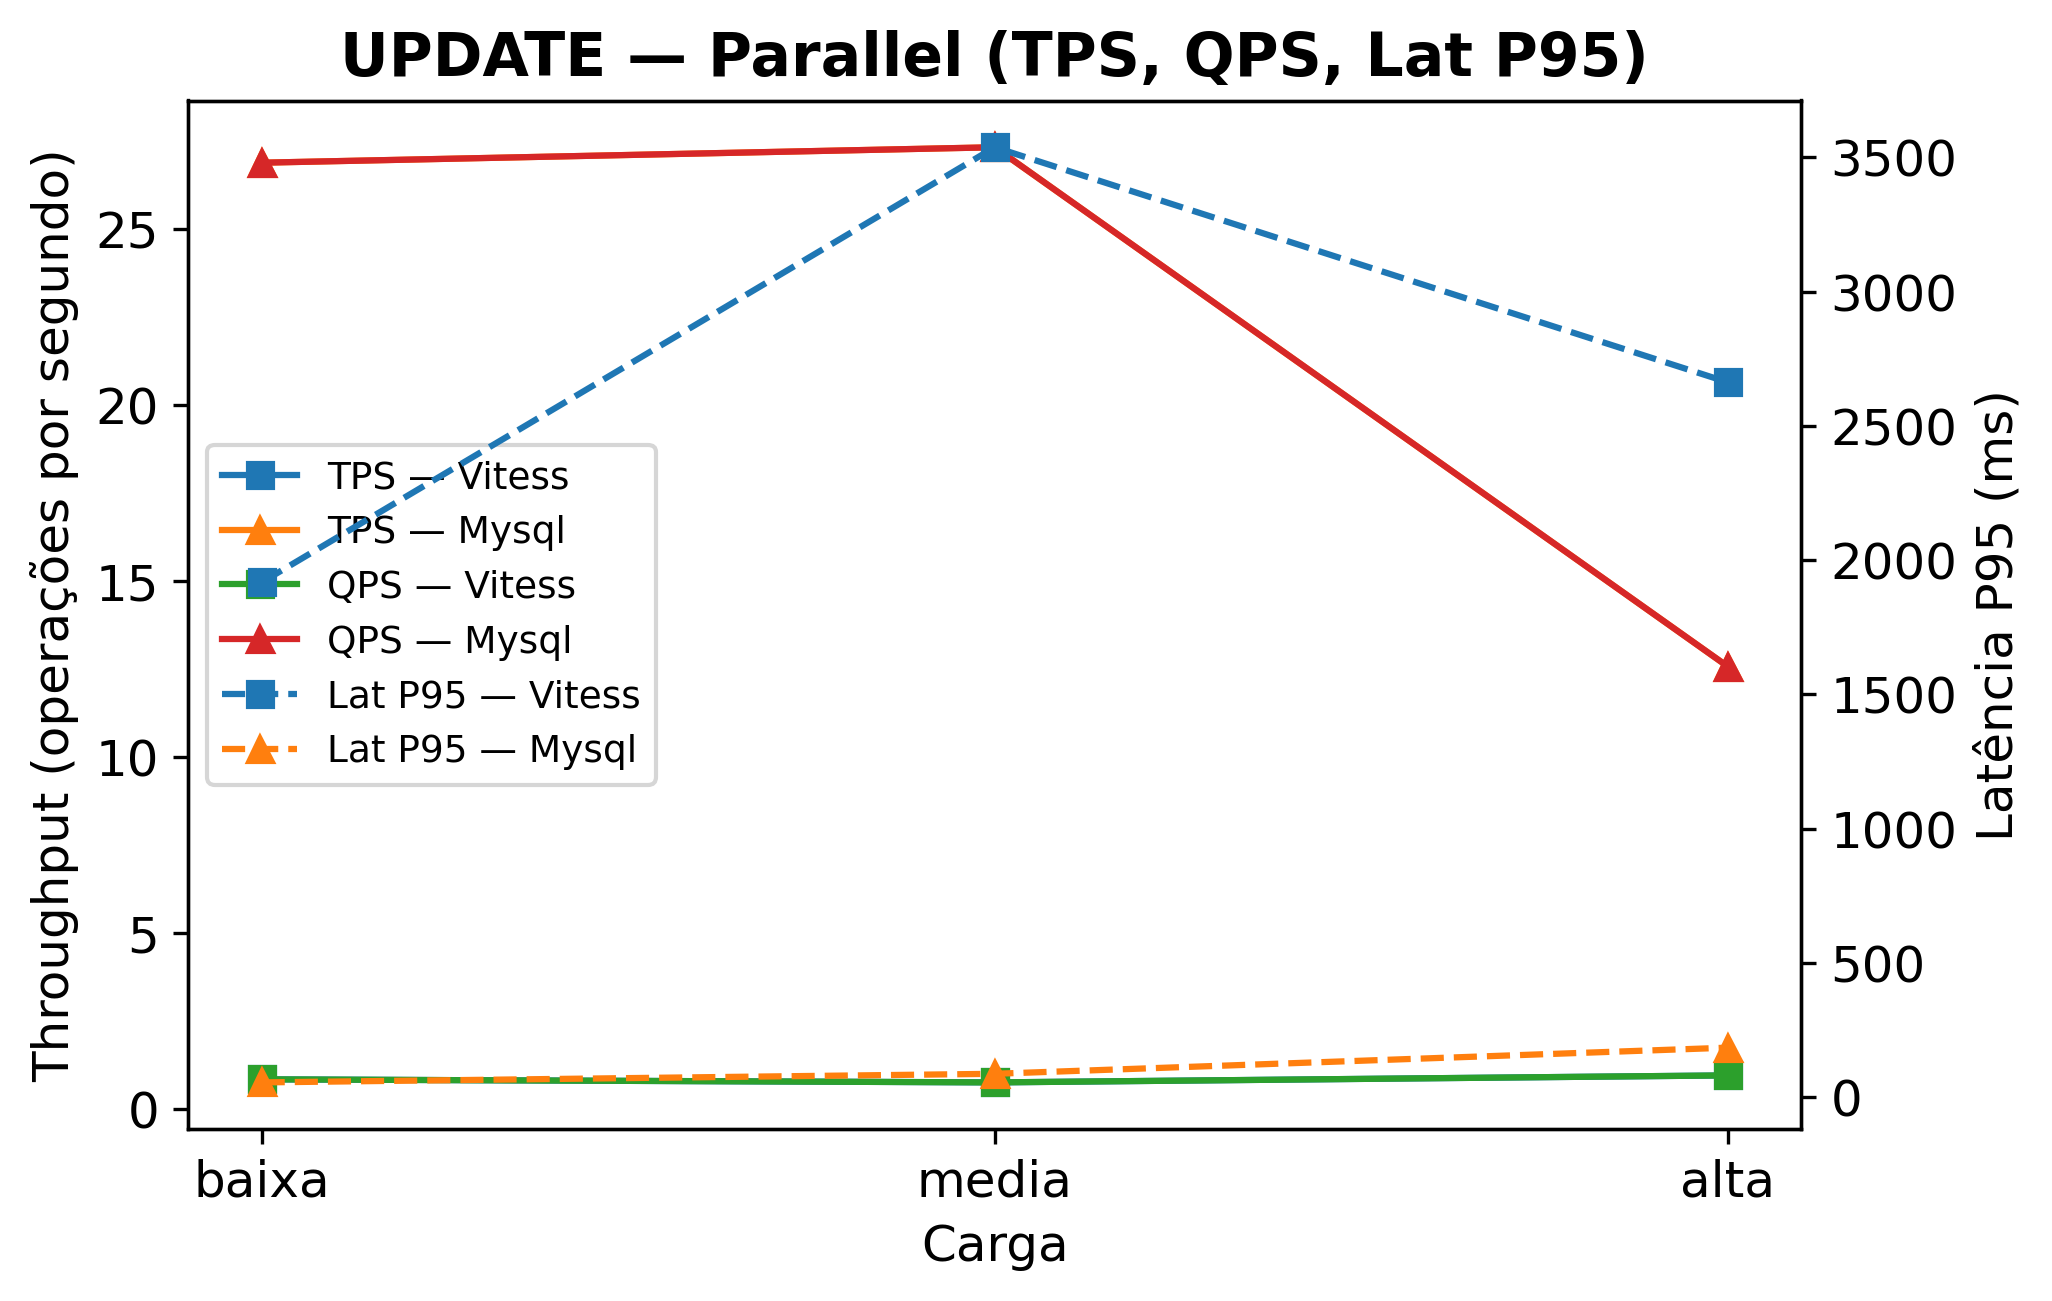
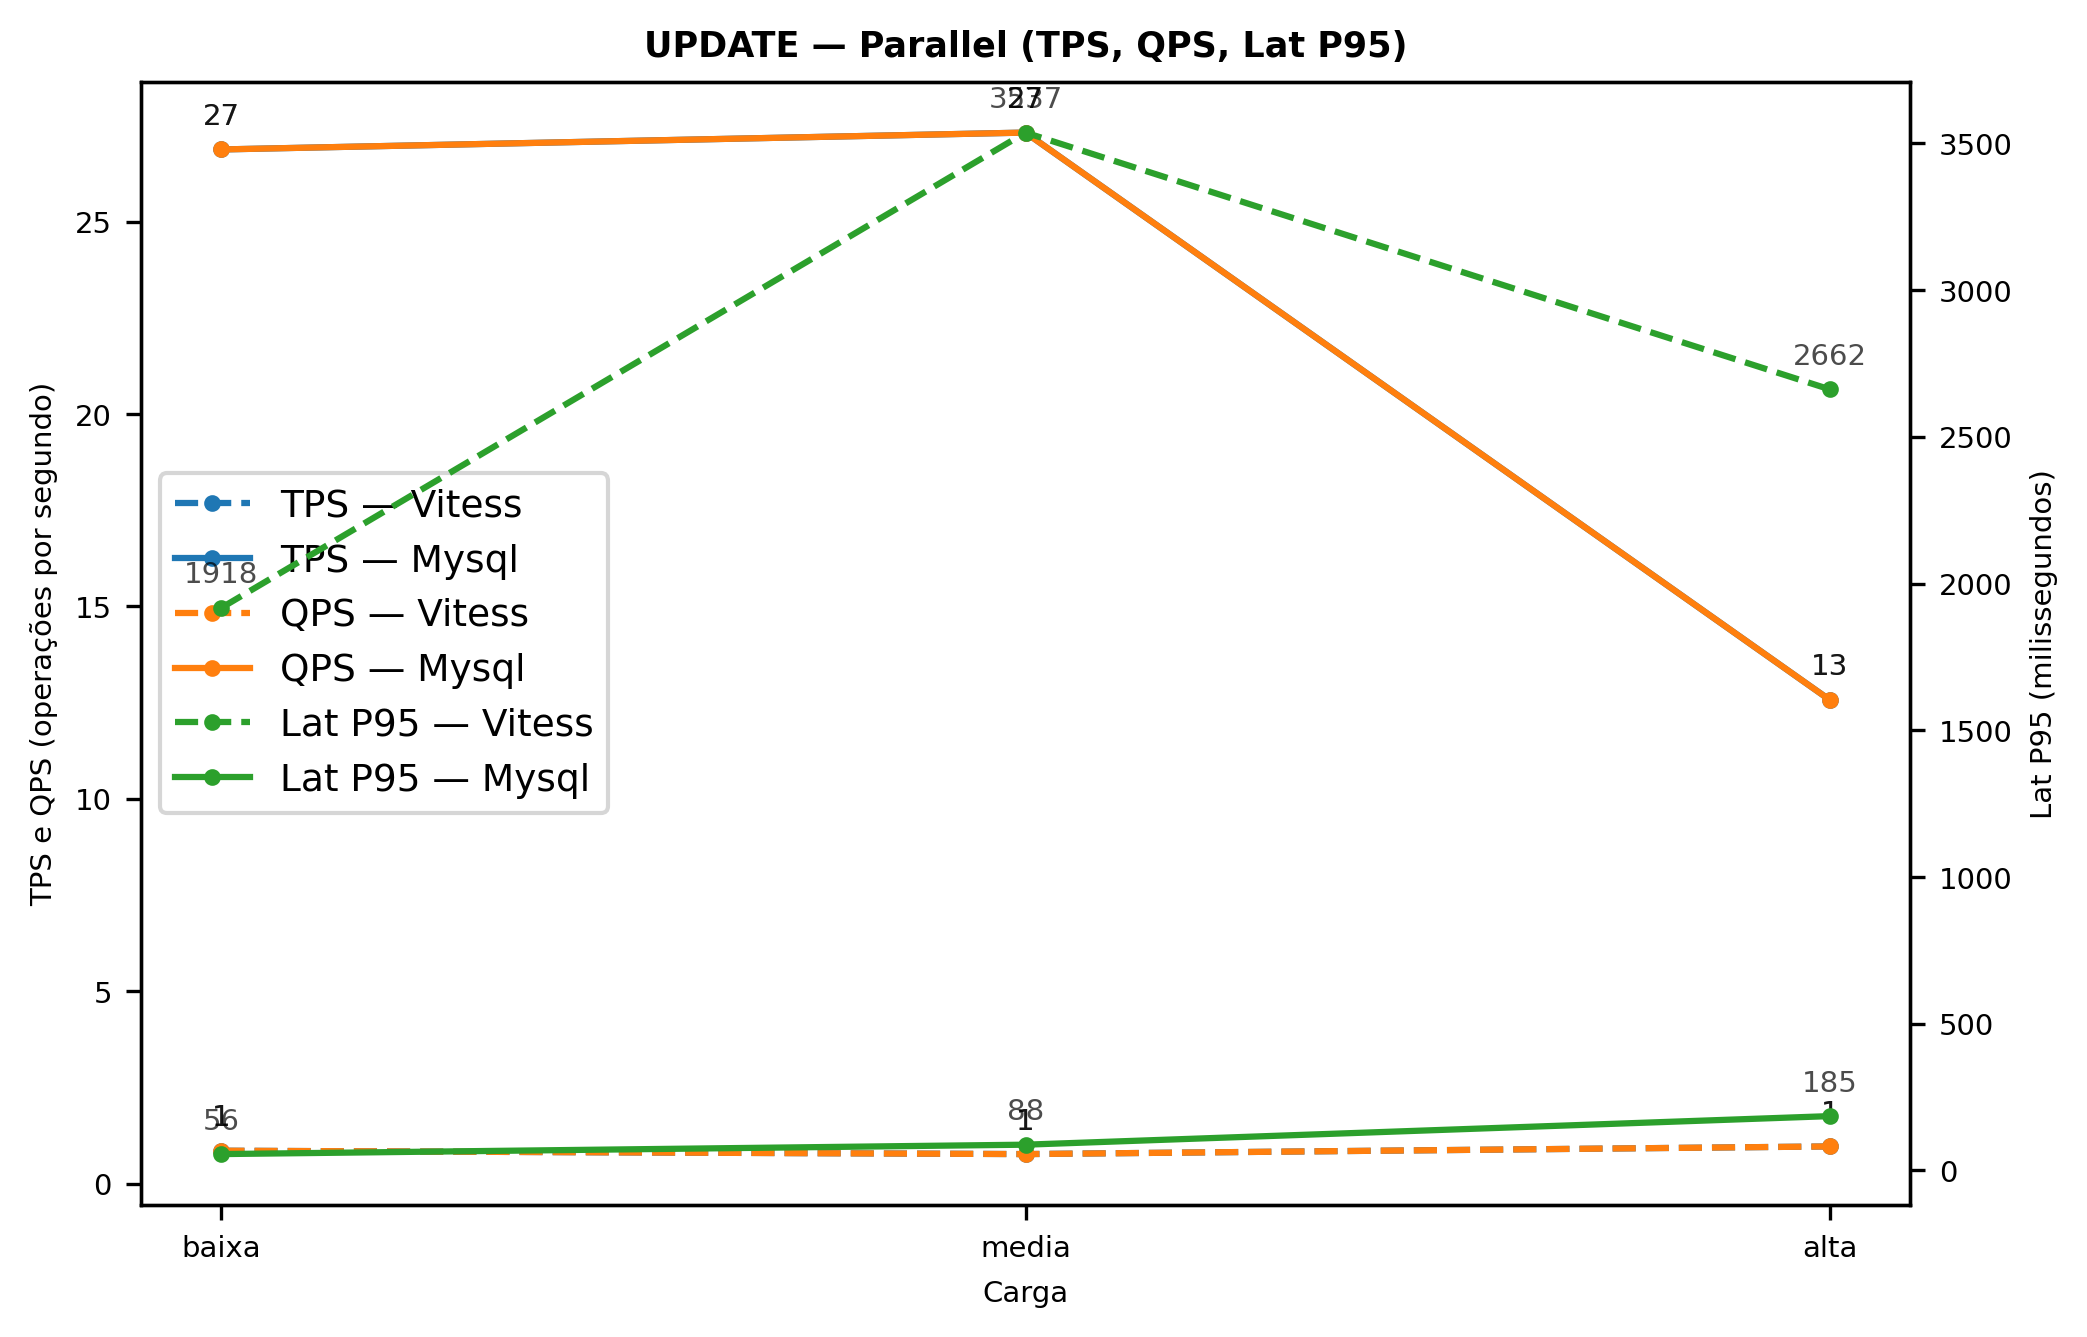
Atualiza gráficos de desempenho e ajusta estilo de plotagem

diff --git a/graphics/src/plots.py b/graphics/src/plots.py
@@ -23,10 +23,23 @@ def plot_multimetric_by_scenario(
         raise ValueError(f"Sem dados para test_base='{test_base}' e scenario='{scenario}'.")
 
     # Marcadores: Vitess quadrado, MySQL triângulo
-    marker_by_db = {"vitess": "s", "mysql": "^"}
+    # marker_by_db = {"vitess": "s", "mysql": "^"}
+
+    marker_by_db = {"vitess": "o", "mysql": "o"}
+    linestyle_by_db = {"vitess": "--", "mysql": "-"}
 
     fig, ax_left = plt.subplots(figsize=(7, 4.5))
     ax_right = ax_left.twinx()
+
+    # -------------------------
+    # MÉTRICAS DAS MESMAS CORES
+    # -------------------------
+    color_cycle = plt.rcParams["axes.prop_cycle"].by_key()["color"]
+    metric_color = {
+        "TPS": color_cycle[0],
+        "QPS": color_cycle[1],
+        "LAT": color_cycle[2],
+    }
 
     # -------------------------
     # EIXO ESQUERDO — TPS / QPS
@@ -35,16 +48,28 @@ def plot_multimetric_by_scenario(
         (tps_col, "TPS"),
         (qps_col, "QPS"),
     ]:
+        color = metric_color["TPS"] if metric_label == "TPS" else metric_color["QPS"]
         for db in ["vitess", "mysql"]:
             d = data[data[db_col] == db].sort_values(x_col)
             ax_left.plot(
                 d[x_col].astype(str),
                 d[col].values,
+                color=color,
+                linestyle=linestyle_by_db.get(db, "-"),
                 marker=marker_by_db.get(db, "o"),
+                markersize=3,
                 label=f"{metric_label} — {db.capitalize()}",
             )
 
-    ax_left.set_ylabel("Throughput (operações por segundo)")
+            annotate_points(
+                ax_left,
+                d[x_col].astype(str),
+                d[col].values,
+                fmt="{:.0f}",
+                dy=6
+            )
+
+    ax_left.set_ylabel("TPS e QPS (operações por segundo)")
     ax_left.set_xlabel("Carga")
 
     # -------------------------
@@ -55,13 +80,23 @@ def plot_multimetric_by_scenario(
         ax_right.plot(
             d[x_col].astype(str),
             d[lat_col].values,
-            linestyle="--",
+            color=metric_color["LAT"],
+            linestyle=linestyle_by_db.get(db, "-"),
             marker=marker_by_db.get(db, "o"),
+            markersize=3,
             label=f"Lat P95 — {db.capitalize()}",
         )
 
-    ax_right.set_ylabel("Latência P95 (ms)")
+        annotate_points(
+            ax_right,
+            d[x_col].astype(str),
+            d[lat_col].values,
+            fmt="{:.0f}",   # ms inteiros
+            dy=6
+        )
 
+    ax_right.set_ylabel("Lat P95 (milissegundos)")
+    
     # -------------------------
     # TÍTULO + LEGENDA
     # -------------------------
@@ -80,6 +115,27 @@ def plot_multimetric_by_scenario(
     outpath.parent.mkdir(parents=True, exist_ok=True)
     fig.savefig(outpath, dpi=300, bbox_inches="tight")
     plt.close(fig)
+
+def annotate_points(ax, x, y, fmt="{:.1f}", dy=5):
+    """
+    ax : eixo matplotlib
+    x  : valores do eixo X (strings ou números)
+    y  : valores do eixo Y
+    fmt: formato do texto
+    dy : deslocamento vertical (em pontos)
+    """
+    for xi, yi in zip(x, y):
+        if yi is None or pd.isna(yi):
+            continue
+        ax.annotate(
+            fmt.format(yi),
+            (xi, yi),
+            textcoords="offset points",
+            xytext=(0, dy),
+            ha="center",
+            fontsize=7,
+            alpha=0.7,
+        )
 
 def _pivot(df: pd.DataFrame, value_col: str, x_col="scale", hue_col="database"):
     pivot = (df.pivot_table(index=x_col, columns=hue_col,

diff --git a/graphics/src/style.py b/graphics/src/style.py
@@ -4,7 +4,7 @@ def apply_paper_style():
     plt.rcParams.update({
         "figure.figsize": (7, 4.5),
         "figure.dpi": 120,
-        "font.size": 12,
+        "font.size": 9,
         "axes.titleweight": "semibold",
         "axes.grid": False,
         "savefig.dpi": 300,
